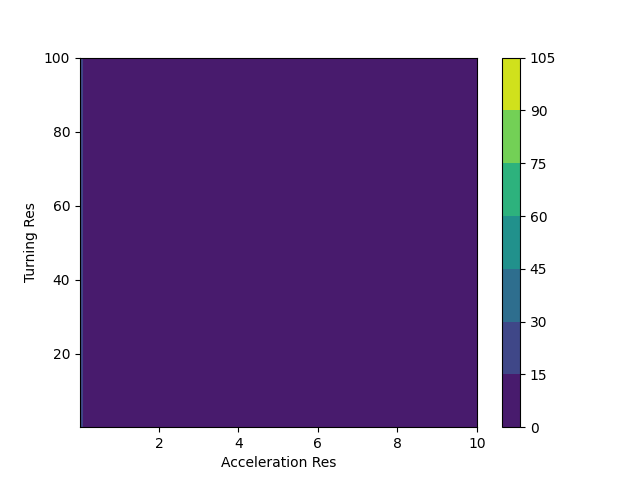
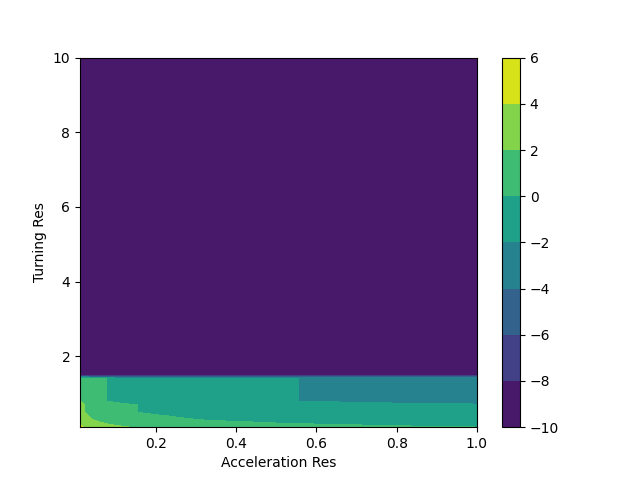
fixed graphs with log densities and smaller ranges for turning and acc res

diff --git a/src/qlearning/sampling.py b/src/qlearning/sampling.py
@@ -42,10 +42,8 @@ total_samples = get_possible_states(curr1, differentials, high_res)
 total_samples_size = len(total_samples)
 #print(total_samples_size)
 
-acc_res_size = 1000
-turn_res_size = 1000
-
-#res_shape = (acc_res_size, turn_res_size) #500 rows for acc_res, 1000 columns for turn_res
+acc_res_size = 100
+turn_res_size = 100
 
 densities = np.zeros((acc_res_size, turn_res_size))
 acc_res = np.zeros(acc_res_size)
@@ -71,9 +69,9 @@ for i in range(turn_res_size): #primary nested loop responsible for density comp
   vari+=0.1
 
 #print(densities)
-# print(densities.shape)
+#print(densities.shape)
 
-# print(len(acc_res))
+#print(len(acc_res))
 # print(len(turn_res))
 # final_len = len(densities)
 
@@ -81,7 +79,17 @@ for i in range(turn_res_size): #primary nested loop responsible for density comp
 # Assuming acc_res and turn_res are 1D arrays and densities is a 2D array
 
 # Create a meshgrid for acc_res and turn_res
-acc_res_grid, turn_res_grid = np.meshgrid(acc_res, turn_res)
+# acc_res_grid, turn_res_grid = np.meshgrid(np.log(acc_res), np.log(turn_res))
+acc_res_grid, turn_res_grid = np.meshgrid((acc_res), (turn_res))
+
+densities = np.where(densities > 1e-10, densities, -10)
+np.log(densities, out=densities, where=densities > 0)
+
+# safe = np.clip(densities, 1e-10, None)
+    
+# densities = np.where(densities > 1e-10, np.log(safe), 0)
+    
+# Example usage
 
 # Creating a figure for 3D plotting
 fig = plt.figure()
@@ -105,7 +113,7 @@ fig.colorbar(surf, shrink=0.5, aspect=5)
 plt.savefig('sampling_density_surface_plot.png')
 
 
-acc_res_grid, turn_res_grid = np.meshgrid(acc_res, turn_res)
+
 
 # Creating a figure
 fig, ax = plt.subplots()
@@ -123,6 +131,20 @@ fig.colorbar(contour)
 # Save the plot
 plt.savefig('sampling_density_contour_plot.png')
 
+
+
+
+
+# plt.figure()
+# ax = plt.axes(projection="3d")
+
+# ax.scatter(acc_res, turn_res, densities)
+# plt.plot(acc_res, turn_res, densities)
+# ax.set_xlabel("acceleration res")
+# ax.set_ylabel("turning res")
+# ax.set_zlabel("sampling density")
+# ax.view_init(60,35)
+# plt.savefig('sampling_plot5.png')
 
 # plt.figure()
 # ax = plt.axes(projection="3d")
